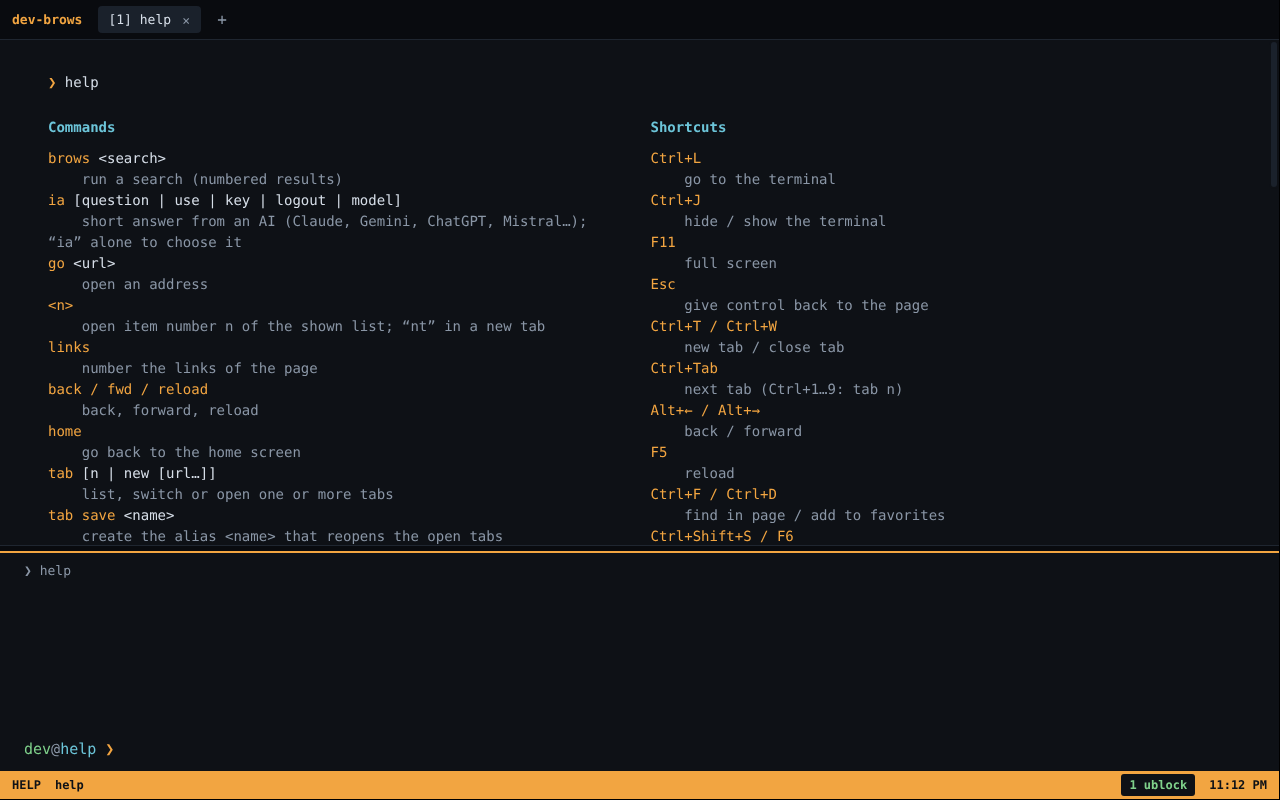
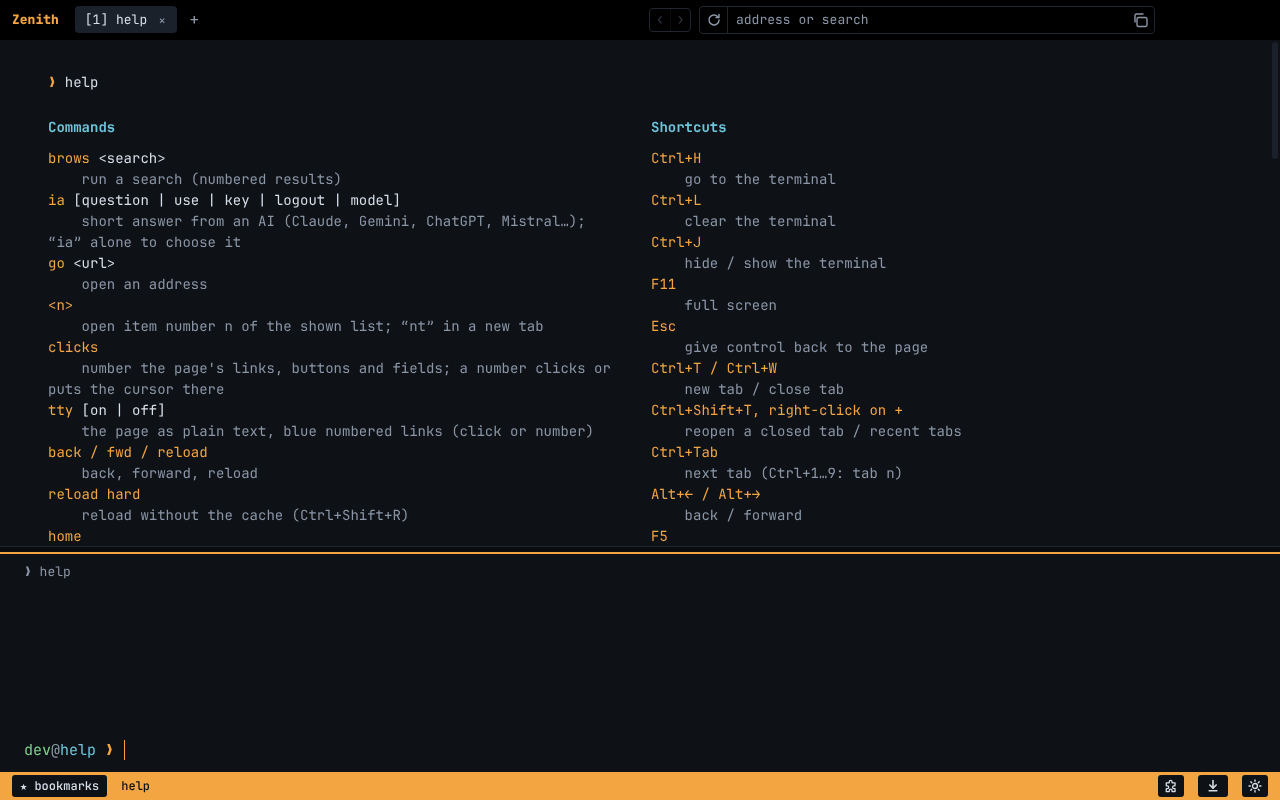
README : captures d'écran avec le visuel Zenith, version 0.1.32
Claude-Session: https://claude.ai/code/session_01NcDPDba4DM9f2dc52Y32xe

diff --git a/src/shared/changelog.js b/src/shared/changelog.js
@@ -4,6 +4,15 @@
 // Ajouter une entrée en tête à chaque nouvelle version : notes en français, en anglais dans `en`.
 const CHANGELOG = [
   {
+    version: '0.1.32',
+    notes: [
+      'Les captures d\'écran du README montrent le nouveau visuel de Zenith (logo, barre d\'adresse, barre d\'état).',
+    ],
+    en: [
+      'The README screenshots show Zenith\'s new look (logo, address bar, status bar).',
+    ],
+  },
+  {
     version: '0.1.30',
     notes: [
       'Le README indique le nom complet de l\'auteur de Zenith.',
